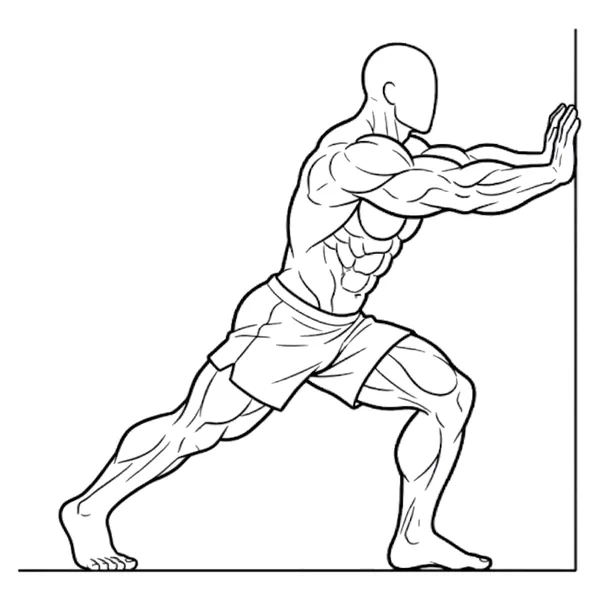
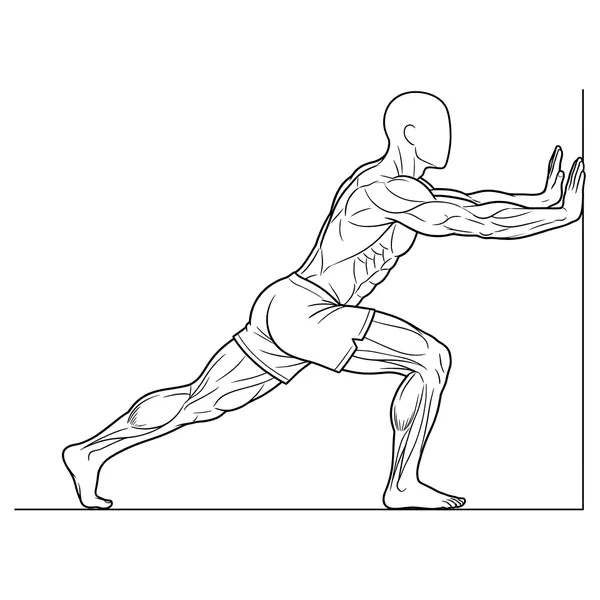
0.60.23: leon y vela rehechos, gemelo en pared con el talon apoyado

Changed region(s): [[0.03, 0.06, 0.99, 0.96], [0.09, 0.75, 0.12, 0.78]]

diff --git a/web/sw.js b/web/sw.js
@@ -7,12 +7,12 @@
 // Solo se ocupa del CÓDIGO de la app. Los datos del usuario nunca pasan por
 // aquí: viven en el dispositivo (IndexedDB) y en su Google Drive.
 
-const VERSION = '0.60.22';
+const VERSION = '0.60.23';
 const CACHE = `entreno-${VERSION}`;
 // Las imágenes van en un almacén aparte que NO se borra al actualizar la app:
 // así se ven sin conexión aunque haya salido una versión nueva.
 // Si cambian las imágenes, se sube el número y los móviles bajan las nuevas.
-const CACHE_IMAGENES = 'entreno-imagenes-31';  // el mismo nombre en app.js (guardarImagenesParaSinConexion)
+const CACHE_IMAGENES = 'entreno-imagenes-32';  // el mismo nombre en app.js (guardarImagenesParaSinConexion)
 
 const ARCHIVOS = [
   './',

diff --git a/web/js/app.js b/web/js/app.js
@@ -236,7 +236,7 @@ async function guardarImagenesParaSinConexion() {
     const capas = Object.entries(MUSCULOS).flatMap(([clave, m]) => m.vistas.map((v) => archivoCapa(clave, v)));
     const cuerpo = ['imagenes/musculos/cuerpo-delante.svg', 'imagenes/musculos/cuerpo-detras.svg'];
     // El mismo nombre que CACHE_IMAGENES en sw.js: si no, el service worker lo borra.
-    const cache = await caches.open('entreno-imagenes-31');
+    const cache = await caches.open('entreno-imagenes-32');
     for (const ruta of [...cuerpo, ...capas, ...mios]) {
       if (!(await cache.match(ruta, { ignoreSearch: true }))) {
         const r = await fetch(ruta).catch(() => null);

diff --git a/web/js/version.js b/web/js/version.js
@@ -1,3 +1,3 @@
 // Versión del código de la app. Se sube en cada publicación y debe coincidir
 // con VERSION en sw.js, que es lo que hace que los móviles se actualicen.
-export const VERSION_APP = '0.60.22';
+export const VERSION_APP = '0.60.23';

diff --git a/imagenes-ia/cola.md b/imagenes-ia/cola.md
@@ -112,8 +112,10 @@ de la oreja)… de perfil, tampoco el saliente de la nariz ni de los labios». E
 petición (el pez levantaba la cabeza; la goblet sale «de huevo», que lo decida Dan).
 
 ## 3. Con IA, posturas y ejercicios
-- [ ] León: no es la postura (ejemplo del libro). Paloma real y sobre los hombros con apoyo: rehacer.
-- [ ] Gemelo y sóleo en pared: el talón de atrás apoyado del todo (y le extraña la diferencia de la rodilla).
+- [x] León: no es la postura (ejemplo del libro). Paloma real y sobre los hombros con apoyo: rehacer.
+      0.60.23: león y vela rehechos. Paloma real NO sale: Gemini devuelve la de antes o la pone en zancada (3 intentos);
+      probar con el libro de yoga como ejemplo o con ChatGPT.
+- [ ] (gemelo hecho en 0.60.23 desde cero; editando no baja el talón. Falta el sóleo, igual: desde cero) Gemelo y sóleo en pared: el talón de atrás apoyado del todo (y le extraña la diferencia de la rodilla).
 - [ ] Estiramiento de antebrazo: variante nueva de flexores. Leñador en polea: variante nueva hacia arriba.
 - [ ] CARs de hombro → cambiar por «rotaciones de hombro con palo» (buscar ejemplos).
 - [ ] Dominadas: el tamaño cambia (como el muñeco de antes). Supinas = las dominadas nuevas cambiando solo el

diff --git a/CLAUDE.md b/CLAUDE.md
@@ -1203,4 +1203,7 @@ fase), tras probar la A.
   escápula), pantalón blanco en héroe tendido y sofá, banco sobre cuatro apoyos con el cuerpo de antes, montaña y silla
   con la postura de antes (pasándole el dibujo viejo de modelo). Revisión en el grupo «Sexta vuelta» de la página de
   comparación. Almacén `entreno-imagenes-31`.
+- 0.60.23: sección 3 empezada: león y vela (sobre los hombros con apoyo) rehechos, gemelo en pared con el talón
+  apoyado (hecho desde cero: editando, Gemini no cambia los pies). La paloma real no sale. Gemini al tope a las 17:30.
+  Almacén `entreno-imagenes-32`.
 
